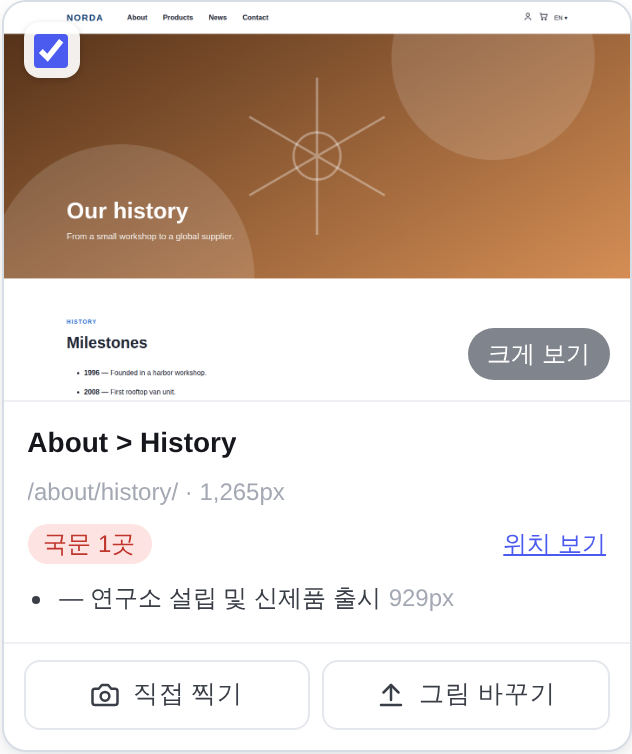
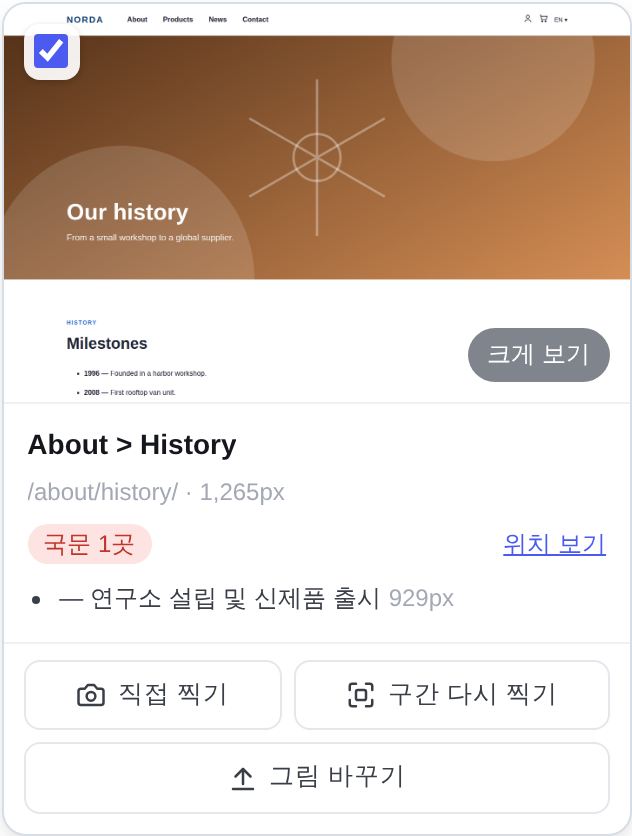
매뉴얼 그림 새 화면으로, 받는 사람 안내에 구간 다시 찍기·카페24·영상 안내
- docs/manual: 1~6·8·9 를 지금 화면으로 다시 찍고, 카페24 상품(12)·카드 버튼(13)·
  구간 보기(14)·구간 창(15)·영상 불러오는 중(16)을 더한다.
- 구간 다시 찍기로 구간 높이가 바뀌면 그 아래의 언어 검수 위치도 옮긴다.

Claude-Session: https://claude.ai/code/session_01WSRWGQYgHkbJGfHEryUGM1

diff --git a/tools/capture-engine/받는사람-안내.md b/tools/capture-engine/받는사람-안내.md
@@ -25,8 +25,12 @@ bash <(curl -fsSL https://raw.githubusercontent.com/pearlJng/website-capture02/c
 1. 주소를 넣고 **분석하기** → 메뉴구조가 나옵니다. 찍을 페이지를 체크합니다(깊이로 한 번에 고를 수 있습니다).
 2. 화면 크기(1440 / 1920 / 375)를 고르고 **캡처 시작**.
 3. 카드에서 결과를 보고, 체크한 것만 **출력하기**(이미지 폴더 또는 PDF 한 권). 저장 위치는 맥의 저장 창에서 정합니다.
-4. 자동으로 잘 안 찍히는 페이지는 카드의 **직접 찍기** → 크롬 창 위 가운데 버튼으로 화면을 하나씩 찍고 **완성**.
+4. 한 구간만 잘못 찍혔으면 카드의 **구간 다시 찍기** → 구간을 고르면 크롬 창이 그 구간에서 열립니다. 원하는 순간에 **이 화면 찍기** → **바꿔 넣기**.
+5. 페이지 전체가 잘 안 찍히면 카드의 **직접 찍기** → 크롬 창 위 가운데 버튼으로 화면을 하나씩 찍고 **완성**.
+6. 카페24 쇼핑몰은 메뉴구조의 상품 목록(SHOP 등) 아래에 상품이 붙습니다. 상품 상세는 첫 상품 하나만 기본으로 고르니, 더 필요하면 체크하세요.
 
 ## 문제가 생기면
 - 앱이 안 열리면: 앱을 한 번 더 눌러 봅니다. 그래도 안 되면 `~/Library/Logs/웹사이트 스냅샷.log` 파일을 담당자에게 보냅니다.
 - 메뉴가 안 잡히면: 2단계의 "메뉴를 찾지 못했어요 — 진단" 내용을 캡처해 담당자에게 보냅니다.
+- 배경 영상이 비어 찍히면: 영상 파일이 크면 처음엔 늦게 뜹니다. 앱이 대신 받아 넣으니 한 번 더 찍어 보고, 카드에 뜬 안내 문구를 담당자에게 보냅니다.
+- 분석 결과에 "구글 크롬을 찾지 못해" 경고가 뜨면 크롬을 설치한 뒤 앱을 다시 켭니다 (없으면 MP4·유튜브 영상이 비어 찍힙니다).
